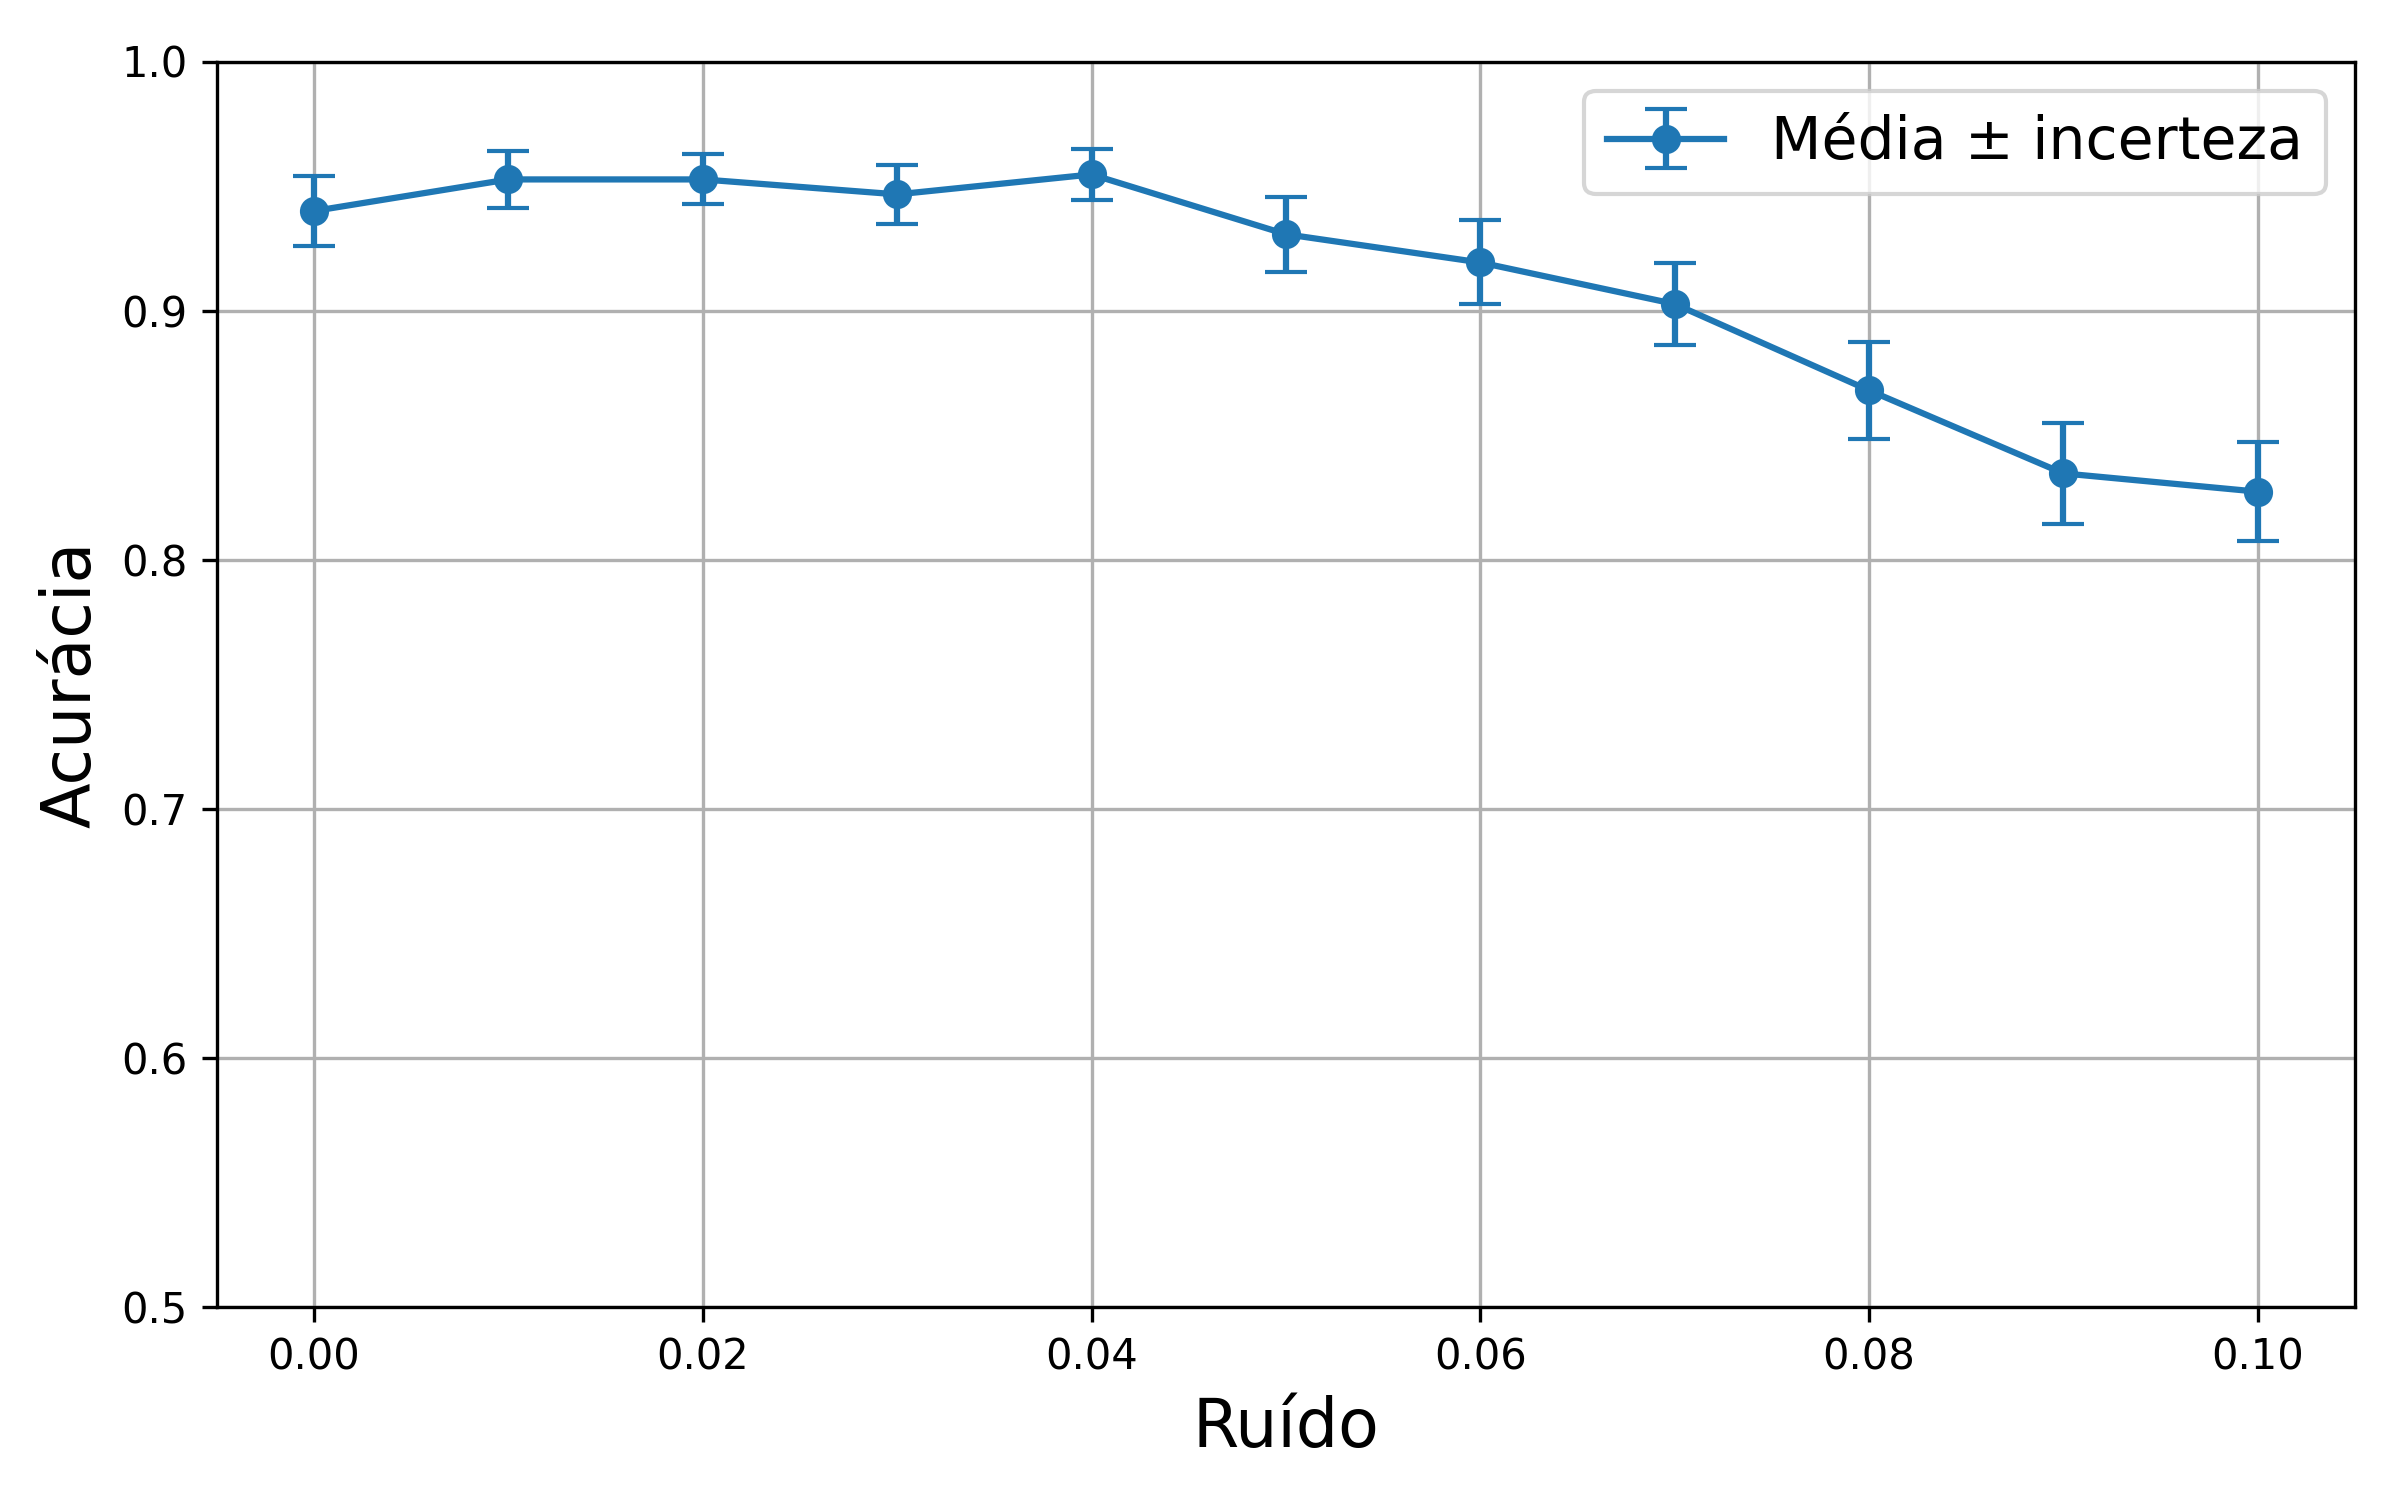
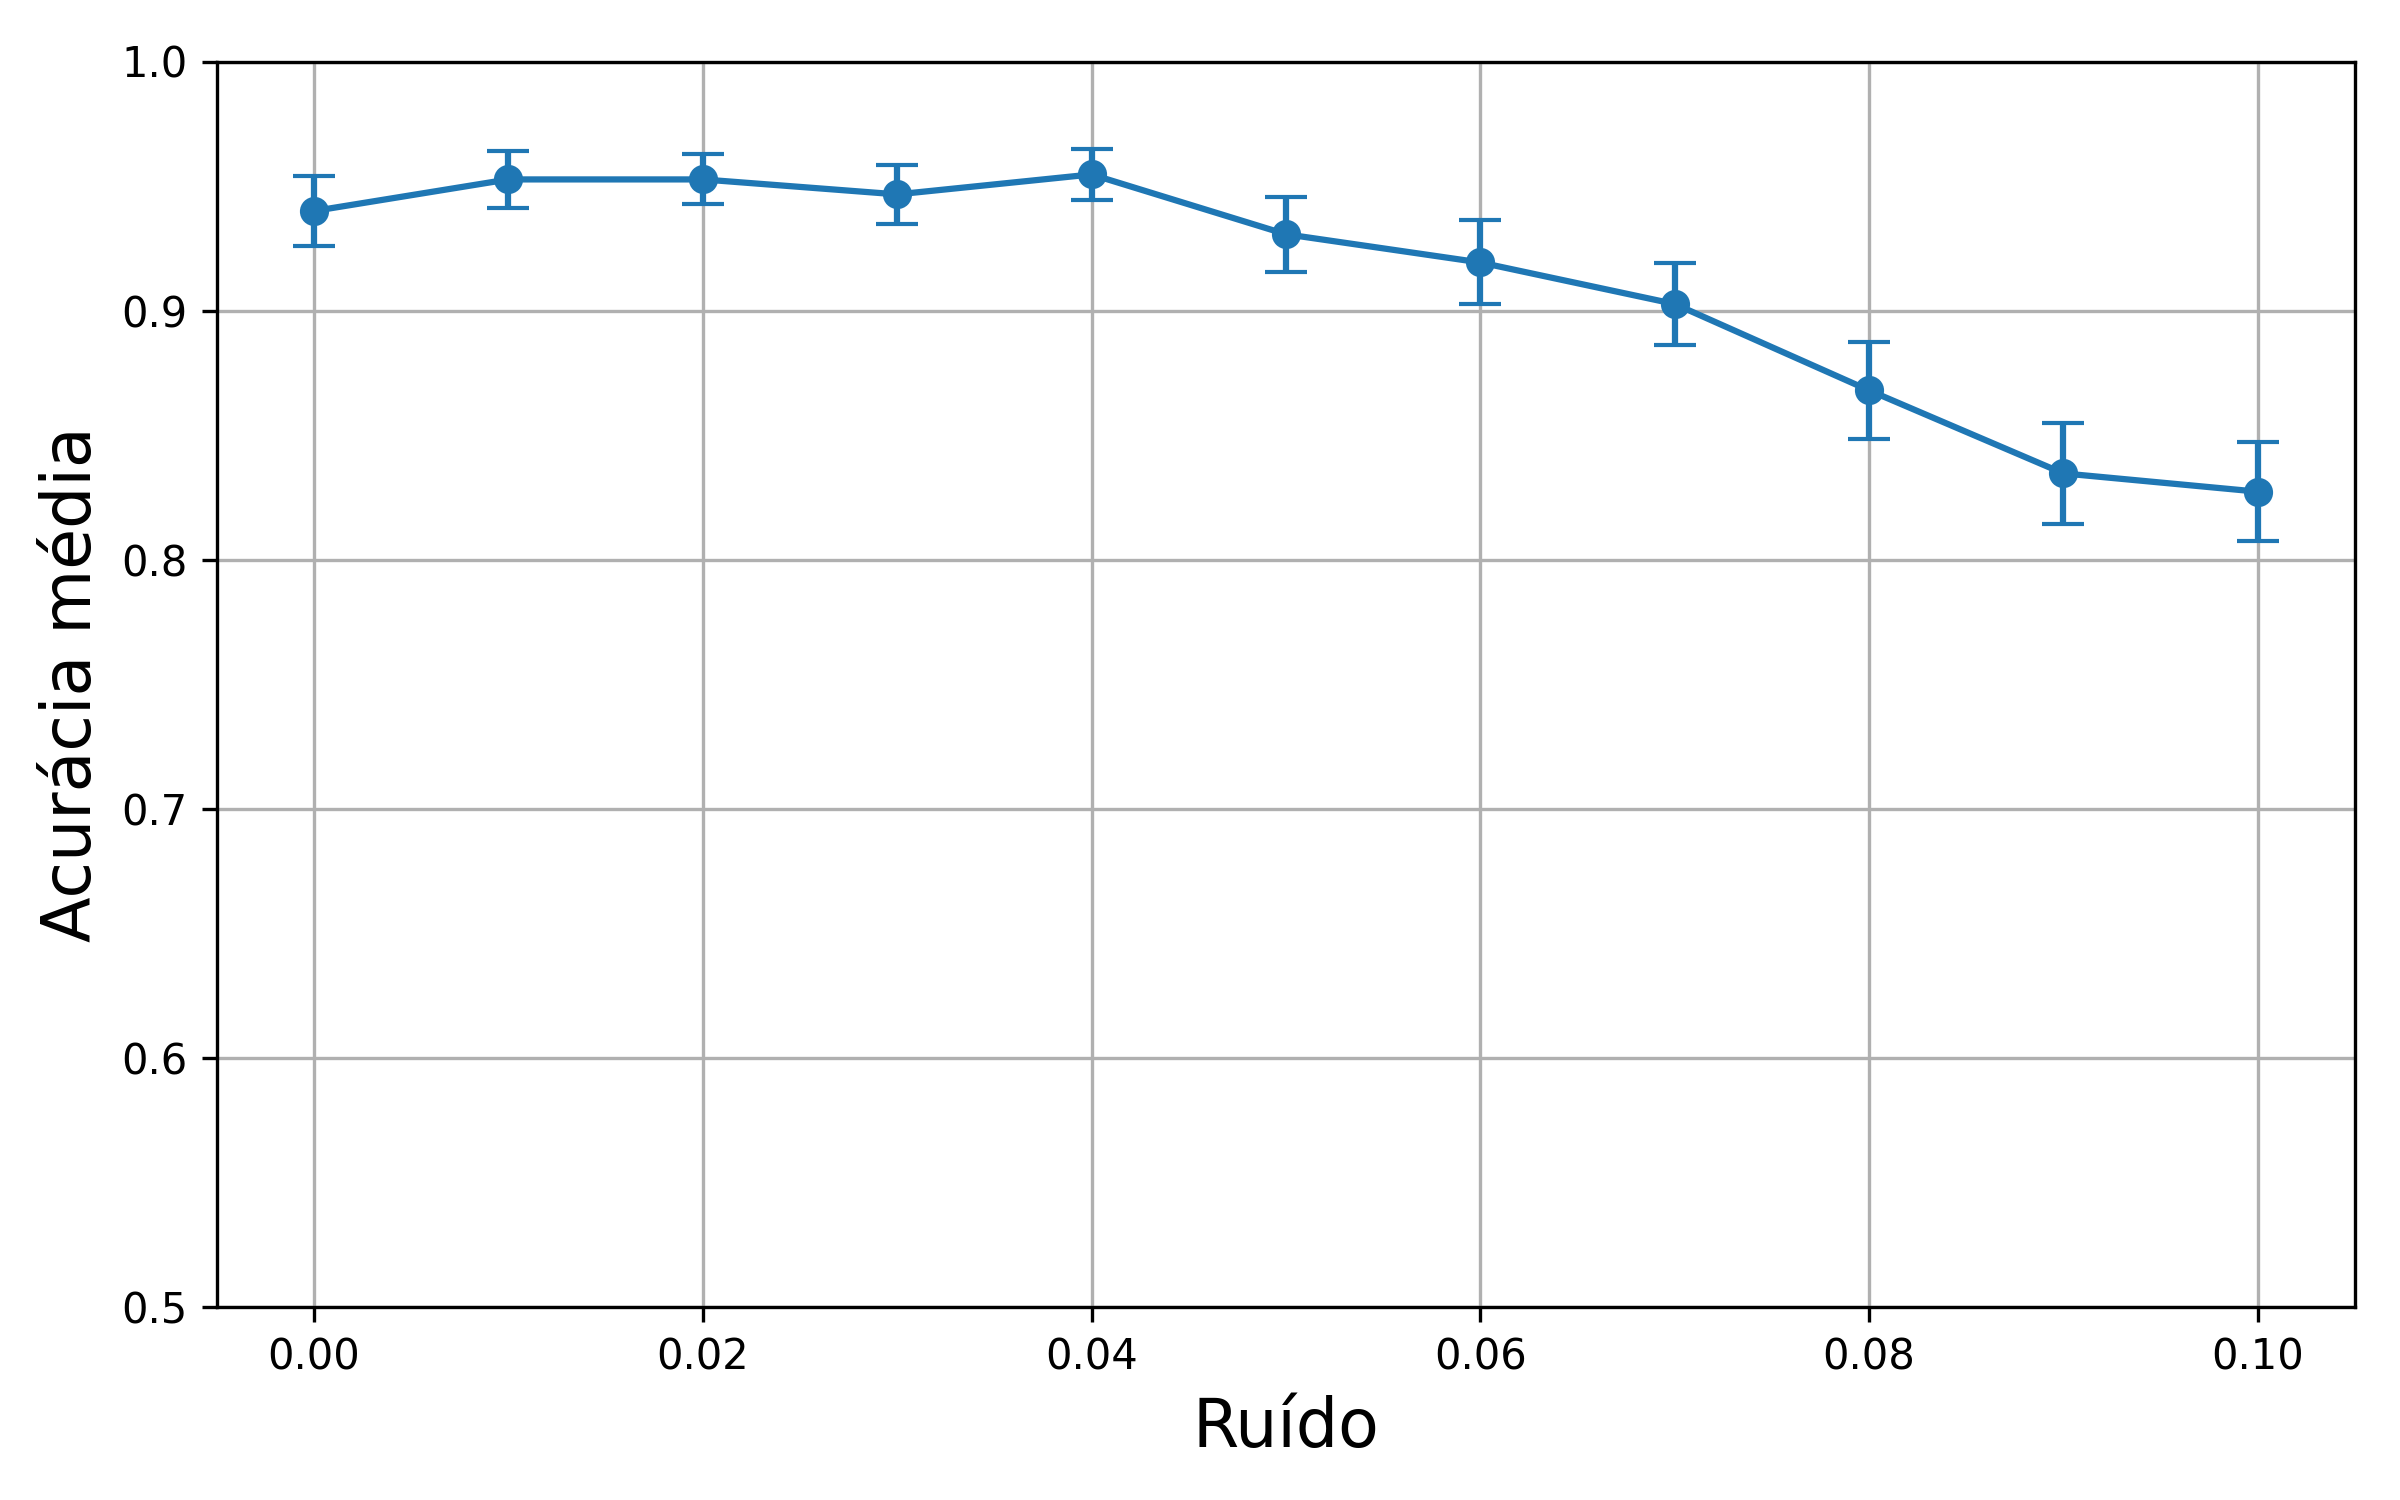
Removed unnecessary files and generated new graphs

diff --git a/organize_results_accuracy.py b/organize_results_accuracy.py
@@ -37,14 +37,13 @@ stds = 1.96 * stds / counts.pow(0.5)
 plt.figure(figsize=(8, 5))
 plt.errorbar(
     means.index, means.values, yerr=stds.values,
-    fmt='o-', capsize=5, label="Média ± incerteza"
+    fmt='o-', capsize=5
 )
 
 # 7) Labels and formatting
 plt.xlabel("Ruído", fontsize=16)
-plt.ylabel("Acurácia", fontsize=16)
+plt.ylabel("Acurácia média", fontsize=16)
 plt.ylim(0.5, 1)
-plt.legend(fontsize=14)
 plt.grid(True)
 plt.tight_layout()
 plt.savefig(OUT_PNG, dpi=300)
